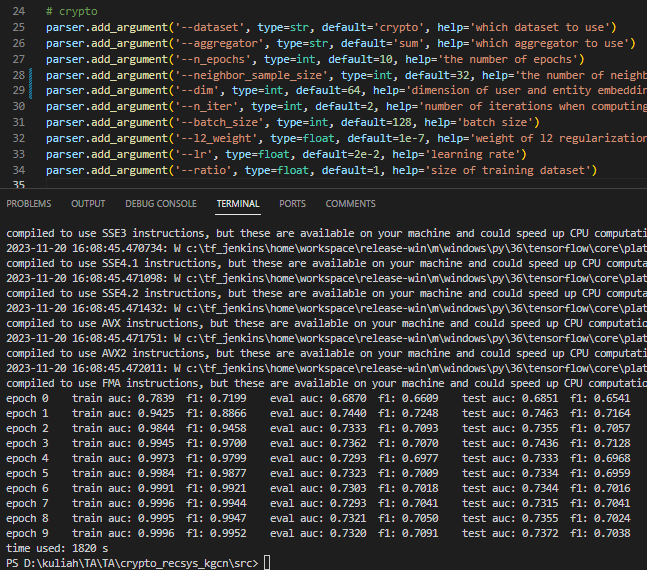
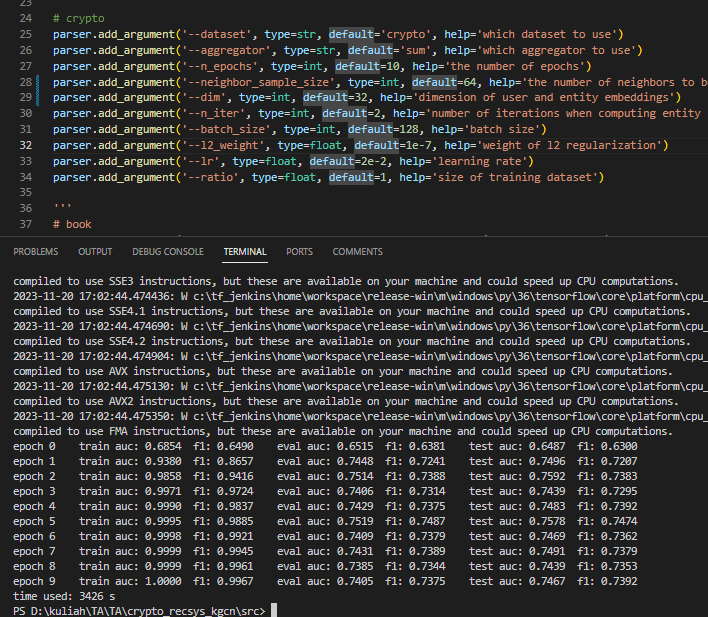
fix neighbo sample size 64 ver

diff --git a/src/main.py b/src/main.py
@@ -25,8 +25,8 @@ parser = argparse.ArgumentParser()
 parser.add_argument('--dataset', type=str, default='crypto', help='which dataset to use')
 parser.add_argument('--aggregator', type=str, default='sum', help='which aggregator to use')
 parser.add_argument('--n_epochs', type=int, default=10, help='the number of epochs')
-parser.add_argument('--neighbor_sample_size', type=int, default=32, help='the number of neighbors to be sampled')
-parser.add_argument('--dim', type=int, default=64, help='dimension of user and entity embeddings')
+parser.add_argument('--neighbor_sample_size', type=int, default=8, help='the number of neighbors to be sampled')
+parser.add_argument('--dim', type=int, default=4, help='dimension of user and entity embeddings')
 parser.add_argument('--n_iter', type=int, default=2, help='number of iterations when computing entity representation')
 parser.add_argument('--batch_size', type=int, default=128, help='batch size')
 parser.add_argument('--l2_weight', type=float, default=1e-7, help='weight of l2 regularization')
